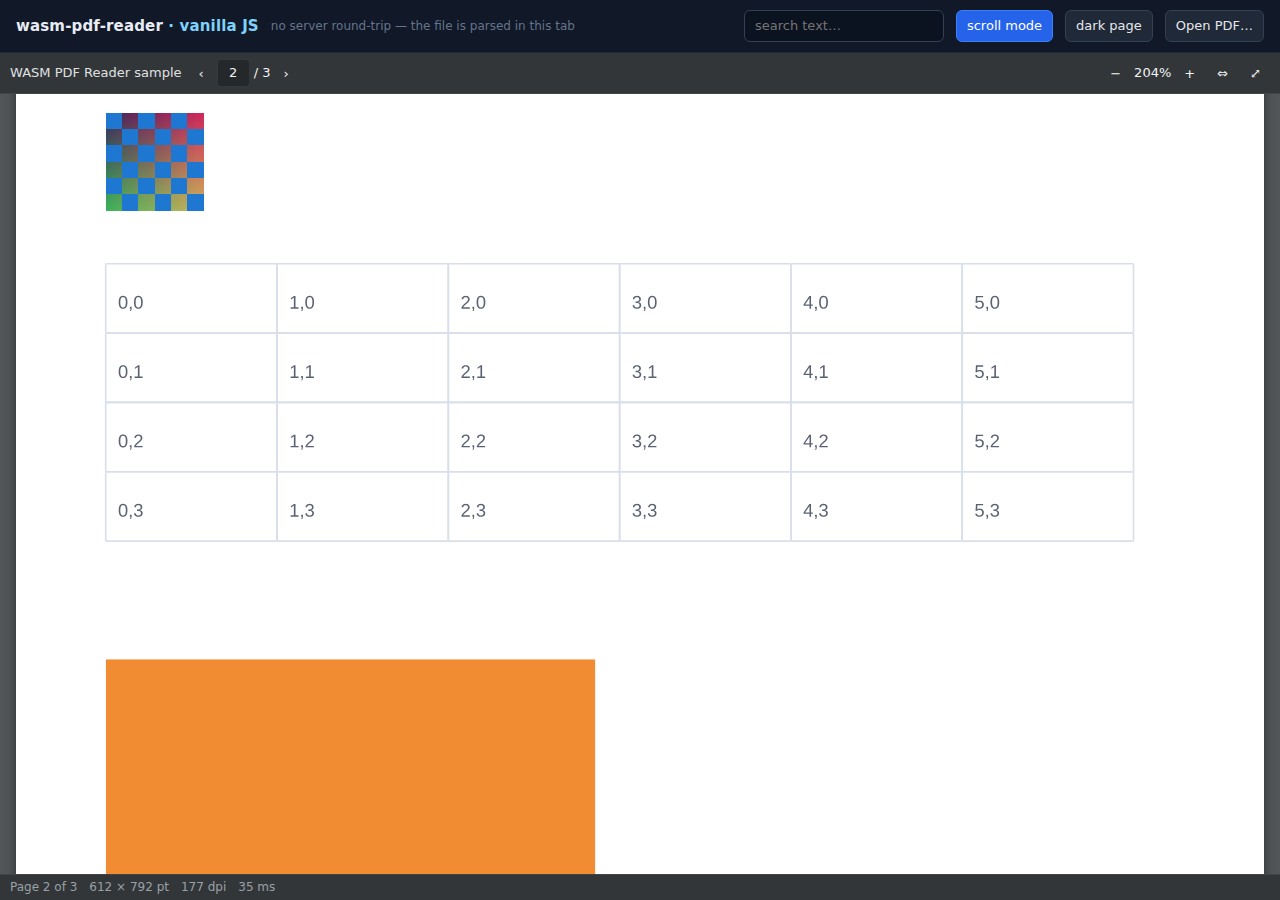
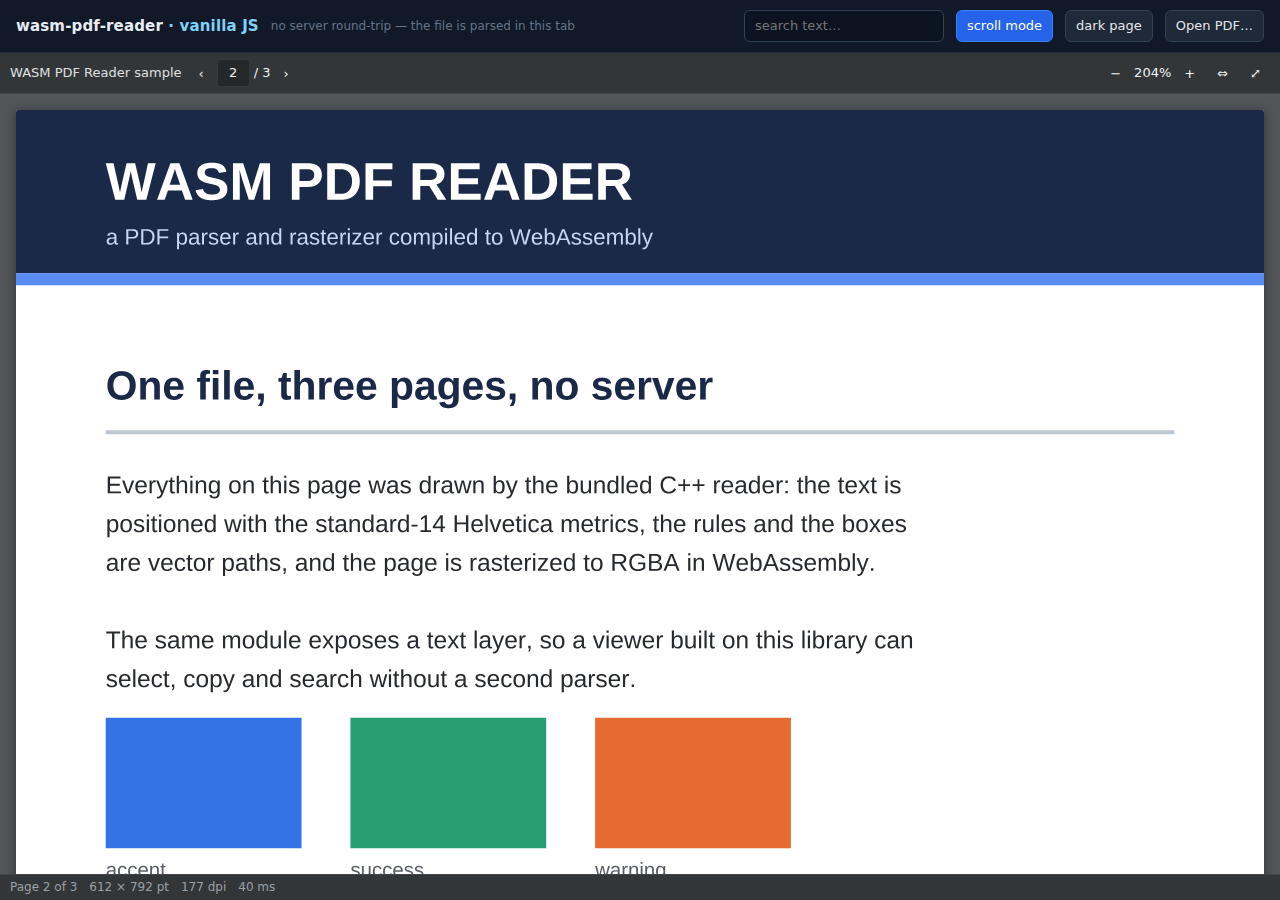
Make link annotations clickable; add rendered examples to the README
Two bugs sat behind 'links do not redirect':

- the overlay layer is pointer-events:none so highlights and the selection
  cannot eat clicks, but .wpdf-link never opted back in, so every anchor
  was inert. One CSS line; both viewers.
- scroll mode built the link layer and dropped the return value, so the
  anchors were never attached to the page.

Scroll mode also pinned its pages to the top of a centred flex column:
justify-content centred the stack, which pushed page 1 above the scroll
origin and left it unreachable, with scrollHeight reporting no overflow.
Set justify-content: flex-start for the continuous layout, pre-render the
current page and its neighbours (a fit-width page can be taller than a
viewport, so no rootMargin reaches the next one), and widen the observer
margin to 50%.

Verified in headless Chrome on links.pdf: the /GoTo link hit-tests as the
anchor and lands on page index 2 in single-page mode and in scroll mode.

README gains a Rendered examples section (annotation fallbacks, a CJK
CMap page, a JBIG2 scan) built with test/render-to-png.mjs, and a Limits
entry for JPEG 2000: the bundled decoder matches MuPDF on the pdf.js
reference fixture but decodes OpenJPEG-produced codestreams to noise
(14/255 on a flat colour, 74/255 on a grey ramp), so photo-jpx.pdf and
scripts/make_jpx_fixture.py land as the fixture for fixing that.

diff --git a/dist/mount.js b/dist/mount.js
@@ -323,7 +323,9 @@ export function mountPdfReader(target, options = {}) {
         const index = Number(entry.target.dataset.page);
         renderInto(entry.target, index, scale, token);
       }
-    }, { root: viewport, rootMargin: '300px 0px' });
+    // A tall fit-width page can fill more than one viewport, so a fixed pixel
+    // margin left the next page unrendered until it was already on screen.
+    }, { root: viewport, rootMargin: '50% 0px 50% 0px' });
 
     for (let i = 0; i < state.doc.pageCount; i++) {
       const size = state.doc.getPageSize(i);
@@ -339,6 +341,13 @@ export function mountPdfReader(target, options = {}) {
       viewport.appendChild(pageEl);
       state.pageEls[i] = pageEl;
       observer.observe(pageEl);
+    }
+    // Always paint the current page and its neighbours: at fit-width a page can
+    // be taller than a viewport, which puts the next one outside any sane
+    // rootMargin and leaves it as a placeholder until the user scrolls.
+    for (const i of [state.page - 1, state.page, state.page + 1]) {
+      const node = state.pageEls[i];
+      if (node) renderInto(node, i, scale, token);
     }
     updateToolbar();
   }
@@ -367,7 +376,8 @@ export function mountPdfReader(target, options = {}) {
           scale, height: size.height, boxY0: size.boxY0,
         }));
       }
-      linkLayer(pageEl, index);
+      const linkEl = linkLayer(pageEl, index);
+      if (linkEl) pageEl.appendChild(linkEl);
       selectionLayer(pageEl);
       const hl = opts.highlights?.(index, scale) || [];
       if (hl.length) pageEl.appendChild(highlightLayer(hl, pageEl));

diff --git a/src/js/mount.js b/src/js/mount.js
@@ -323,7 +323,9 @@ export function mountPdfReader(target, options = {}) {
         const index = Number(entry.target.dataset.page);
         renderInto(entry.target, index, scale, token);
       }
-    }, { root: viewport, rootMargin: '300px 0px' });
+    // A tall fit-width page can fill more than one viewport, so a fixed pixel
+    // margin left the next page unrendered until it was already on screen.
+    }, { root: viewport, rootMargin: '50% 0px 50% 0px' });
 
     for (let i = 0; i < state.doc.pageCount; i++) {
       const size = state.doc.getPageSize(i);
@@ -339,6 +341,13 @@ export function mountPdfReader(target, options = {}) {
       viewport.appendChild(pageEl);
       state.pageEls[i] = pageEl;
       observer.observe(pageEl);
+    }
+    // Always paint the current page and its neighbours: at fit-width a page can
+    // be taller than a viewport, which puts the next one outside any sane
+    // rootMargin and leaves it as a placeholder until the user scrolls.
+    for (const i of [state.page - 1, state.page, state.page + 1]) {
+      const node = state.pageEls[i];
+      if (node) renderInto(node, i, scale, token);
     }
     updateToolbar();
   }
@@ -367,7 +376,8 @@ export function mountPdfReader(target, options = {}) {
           scale, height: size.height, boxY0: size.boxY0,
         }));
       }
-      linkLayer(pageEl, index);
+      const linkEl = linkLayer(pageEl, index);
+      if (linkEl) pageEl.appendChild(linkEl);
       selectionLayer(pageEl);
       const hl = opts.highlights?.(index, scale) || [];
       if (hl.length) pageEl.appendChild(highlightLayer(hl, pageEl));

diff --git a/dist/styles.css b/dist/styles.css
@@ -112,7 +112,15 @@
   padding: 16px;
   scroll-behavior: smooth;
 }
-.wpdf-viewport--continuous { flex-direction: column; align-items: center; gap: 16px; }
+.wpdf-viewport--continuous {
+  flex-direction: column;
+  align-items: center;
+  gap: 16px;
+  /* the single-page layout centres its one page with justify-content; a column
+     of pages centred that way overflows *above* the scroll origin, so page 1
+     becomes unreachable and the scrollbar reports no overflow at all */
+  justify-content: flex-start;
+}
 
 .wpdf-page {
   position: relative;
@@ -182,6 +190,9 @@
   border-radius: 2px;
   cursor: pointer;
   outline: none;
+  /* the layer is inert so highlights and the selection overlay cannot eat
+     clicks; the anchors themselves have to opt back in or every link is dead */
+  pointer-events: auto;
 }
 .wpdf-link:hover,
 .wpdf-link:focus-visible {

diff --git a/src/styles.css b/src/styles.css
@@ -112,7 +112,15 @@
   padding: 16px;
   scroll-behavior: smooth;
 }
-.wpdf-viewport--continuous { flex-direction: column; align-items: center; gap: 16px; }
+.wpdf-viewport--continuous {
+  flex-direction: column;
+  align-items: center;
+  gap: 16px;
+  /* the single-page layout centres its one page with justify-content; a column
+     of pages centred that way overflows *above* the scroll origin, so page 1
+     becomes unreachable and the scrollbar reports no overflow at all */
+  justify-content: flex-start;
+}
 
 .wpdf-page {
   position: relative;
@@ -182,6 +190,9 @@
   border-radius: 2px;
   cursor: pointer;
   outline: none;
+  /* the layer is inert so highlights and the selection overlay cannot eat
+     clicks; the anchors themselves have to opt back in or every link is dead */
+  pointer-events: auto;
 }
 .wpdf-link:hover,
 .wpdf-link:focus-visible {

diff --git a/scripts/make_jpx_fixture.py b/scripts/make_jpx_fixture.py
@@ -1,0 +1,69 @@
+#!/usr/bin/env python3
+"""Build test/fixtures/photo-jpx.pdf: one page whose image is JPEG 2000.
+
+    ~/pdfvenv/bin/python scripts/make_jpx_fixture.py
+
+The picture is synthesised (a colour chart, not a photograph) so the fixture is
+reproducible without shipping a bitmap: smooth gradients exercise the JPX
+decoder's colour path, the thin bars and circles expose any subsampling error,
+and the same page rendered by MuPDF is the reference.
+"""
+import io
+
+import pikepdf
+from PIL import Image, ImageDraw
+from pikepdf import Array, Dictionary, Name
+
+W_PX, H_PX = 640, 420
+
+
+def chart():
+    img = Image.new("RGB", (W_PX, H_PX))
+    d = ImageDraw.Draw(img)
+    for y in range(H_PX):                       # vertical hue ramp
+        for x in range(0, W_PX, 8):
+            d.rectangle([x, y, x + 8, y], fill=(x * 255 // W_PX, y * 255 // H_PX,
+                                                (255 - x * 255 // W_PX)))
+    d.rectangle([24, 24, W_PX - 24, H_PX - 24], outline=(255, 255, 255), width=3)
+    for i in range(6):                          # colour wheel
+        cx = 110 + i * 85
+        d.ellipse([cx - 34, 70, cx + 34, 138], fill=(255 - i * 40, i * 40, 90))
+    for i, w in enumerate([1, 2, 3, 4, 6, 9, 13]):   # stroke ladder
+        d.rectangle([60, 200 + i * 16, 300, 200 + i * 16 + w], fill=(20, 20, 20))
+    for i in range(9):                          # high-frequency wedge
+        x0 = 340 + i * 33
+        d.rectangle([x0, 200, x0 + 16, 320], fill=(10, 10, 10))
+    d.rectangle([60, 330, 580, 390], fill=(255, 255, 255))
+    d.text((70, 345), "JPEG 2000 (JPXDecode) - synthetic chart", fill=(0, 0, 0))
+    return img
+
+
+def main():
+    img = chart()
+    buf = io.BytesIO()
+    img.save(buf, format="JPEG2000", quality_mode="rates", quality_layers=[20])
+    jp2 = buf.getvalue()
+
+    pdf = pikepdf.new()
+    page = pdf.add_blank_page(page_size=(612, 792))
+    # draw at 1.5x so the rasterizer has to resample, not blit
+    scaled_w, scaled_h = W_PX * 1.5, H_PX * 1.5
+    x0 = (612 - scaled_w) / 2
+    y0 = (792 - scaled_h) / 2
+    im = pdf.make_stream(jp2)
+    im.Type = Name.XObject
+    im.Subtype = Name.Image
+    im.Width = W_PX
+    im.Height = H_PX
+    im.ColorSpace = Name.DeviceRGB
+    im.BitsPerComponent = 8
+    im.Filter = Name.JPXDecode
+    page.Resources = Dictionary(XObject=Dictionary(Im0=pdf.make_indirect(im)))
+    page.Contents = pdf.make_stream(
+        f"q {scaled_w} 0 0 {scaled_h} {x0} {y0} cm /Im0 Do Q".encode())
+    pdf.save("test/fixtures/photo-jpx.pdf")
+    print(f"wrote test/fixtures/photo-jpx.pdf ({len(jp2) / 1024:.0f} KB of JP2)")
+
+
+if __name__ == "__main__":
+    main()

diff --git a/README.md b/README.md
@@ -41,7 +41,8 @@ in [wasm-ui](https://github.com/dionaditya/wasm-ui), packaged here on its own.
   Software rasterizer with 4× vertical supersampling, returning RGBA8.
   Images larger than the destination are box-averaged, so a 5000 px scan drawn
   at 600 px stays readable instead of aliasing.
-- **Images** — Flate, DCT (JPEG), CCITT G3/G4 fax, JPEG 2000, and JBIG2.
+- **Images** — Flate, DCT (JPEG), CCITT G3/G4 fax, JBIG2, and JPEG 2000 (see
+  [Limits](#limits): the JPX path only handles some encoders).
   PDFium's JBIG2 and fax decoders are translated to C with `wasm2c` and linked
   into `pdf-reader.wasm`, so scans decode in the same pass as everything else —
   no second binary, no JS hand-off, no re-render. Stencil `/Mask` streams decode
@@ -83,6 +84,28 @@ resident in wasm memory). Annotations render but are not interactive beyond
 links: there is no panel for note text, and a highlight uses alpha rather than
 a multiply blend, so overlapping marks darken instead of saturating.
 
+## Rendered examples
+
+Every image below is the engine's own output at scale 1 (72 dpi), not a
+screenshot of another viewer.
+
+**Annotations without appearance streams** — left: highlight (two quads),
+underline, strikeout and squiggly painted from `/QuadPoints` + `/C`; right:
+three `/Text` notes whose icon is built from `/Rect` alone:
+
+![Highlight, underline, strikeout and squiggly painted from QuadPoints](docs/screenshots/feature-annotations.png)
+
+**CJK through a predefined CMap** — `/Encoding /UniJIS-UCS2-H` mapping UCS-2
+codes to Adobe-Japan1 CIDs, then `/CIDToGIDMap` to the embedded Noto subset.
+Ink ratio 0.0047 against MuPDF's 0.0049, mean abs diff 0.08/255:
+
+![日本語のテキスト rendered through UniJIS-UCS2-H](docs/screenshots/feature-cmaps.png)
+
+**JBIG2 scan** — a 19th-century two-column page decoded from a JBIG2 stream
+with a global symbol dictionary, drawn at 1:1:
+
+![A scanned page decoded from JBIG2](docs/screenshots/feature-jbig2.png)
+
 ## Security notes
 
 - **No `eval`, by construction.** Parsing and rasterizing are C++; no JavaScript
@@ -117,6 +140,12 @@ a multiply blend, so overlapping marks darken instead of saturating.
     renderer caps a page at 40 MP`
   - `render failed: not enough memory for a 6000x8000 px page (183 MB); the wasm
     heap could not grow`
+- **JPEG 2000 covers one encoder so far.** The bundled JPX decoder renders the
+  pdf.js reference fixture correctly, but a codestream written by OpenJPEG —
+  what Pillow and most converters emit — decodes to noise: a flat-colour
+  64x48 image differs from MuPDF by 14/255 and a grey ramp by 74/255, while the
+  same images as JPEG, CCITT or JBIG2 match to ~2/255. Fixable; until then do
+  not trust `/JPXDecode` pages.
 - **Encrypted files need their password up front.** There is no callback asking
   the handler for one mid-parse; pass `password` to `open()` (the demo prompts
   once and retries).
